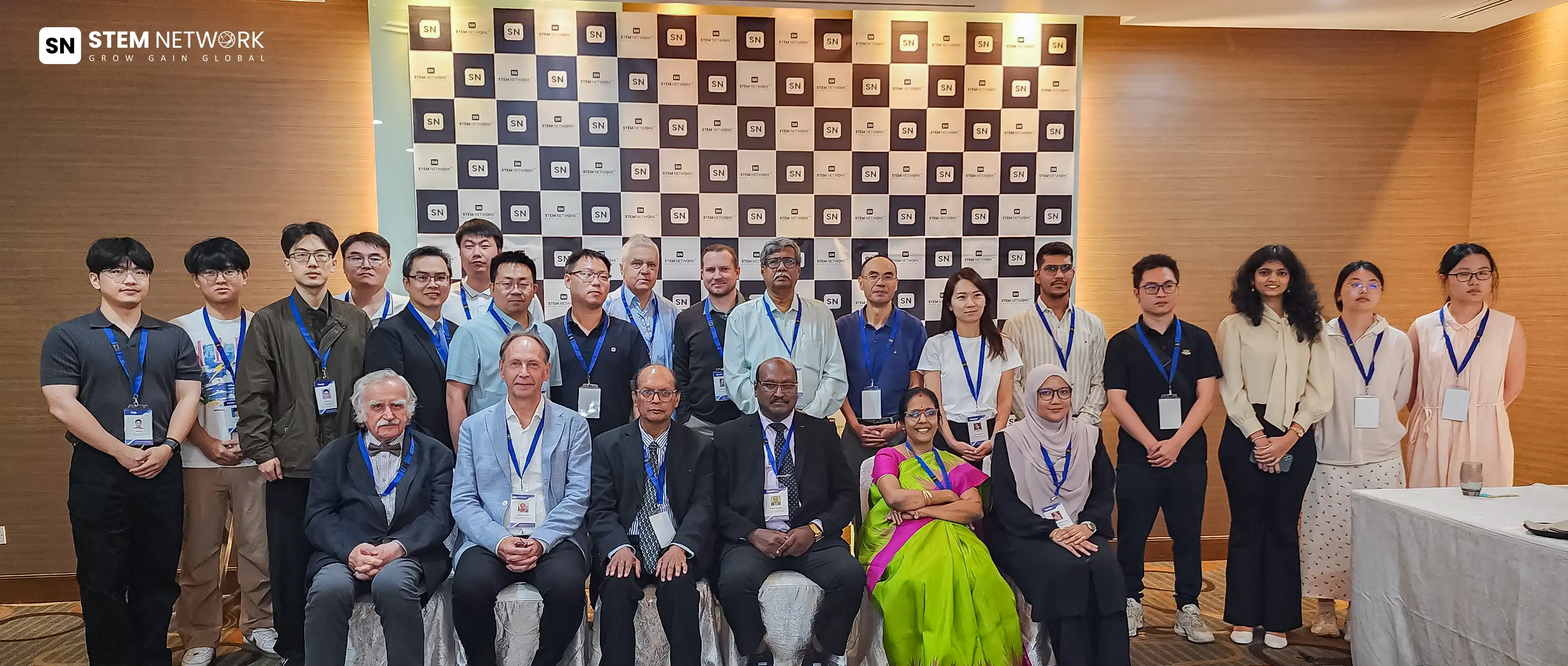
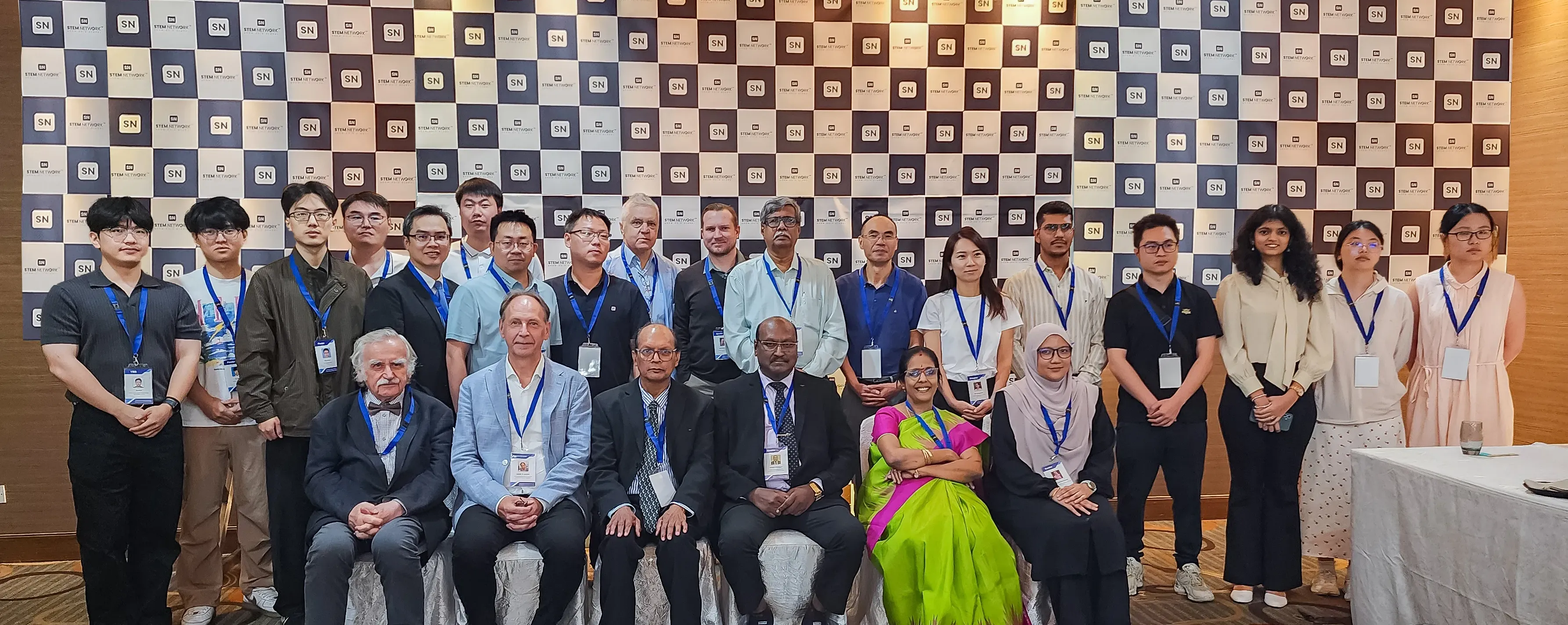
Updated tab -Srilakshmi

diff --git a/src/app/previous-conference/page.tsx b/src/app/previous-conference/page.tsx
@@ -3,8 +3,9 @@ import { ApiResponse } from '@/types';
 import { getBaseUrl } from '@/lib/getBaseUrl';
 import { Metadata } from 'next';
 import Link from 'next/link';
-import Image from 'next/image';
+// import Image from 'next/image';
 import ConferenceTabs from '../components/ConferenceTabs';
+import TabSlider from '../components/TabSlider';
 
 async function fetchGeneralData(): Promise<ApiResponse> {
     const baseUrl = getBaseUrl();
@@ -82,14 +83,16 @@ const PreviousConference = async () => {
 
             <div className='past-conference-page'>
                 <section className="about-conf-section">
-                    {/* <div className="auto-container"> */}
-                    <div className="overview-image-block">
+                    {/* <div className="overview-image-block">
                         <Image src="/images/images/group_image.webp" width={1200} height={500} alt={general_info?.clname} title={general_info?.clname} className="overview-img" />
-                    </div>
+                    </div> */}
+                    <TabSlider />
+
+
                     <div className="overview-content-block">
                         <h2 className="overview-heading">Previous Conference Report</h2>
                         {/* <h3 className="overview-subhead">A Journey of Innovation, Collaboration, and Excellence</h3> */}
-                        <p><span>{general_info?.clname} ({general_info?.csname}-2025)</span> was successfully organized on <span>August 06–07, 2025, in Singapore,</span> bringing together global leaders, researchers, academicians, and industry experts for two days of knowledge-sharing and collaboration.</p>
+                        <p><Link href="/" title={general_info?.clname}>{general_info?.clname} ({general_info?.csname}-2025)</Link> was successfully organized on <span>August 06–07, 2025, in Singapore,</span> bringing together global leaders, researchers, academicians, and industry experts for two days of knowledge-sharing and collaboration.</p>
 
                     </div>
                     <div className="auto-container">
@@ -123,7 +126,7 @@ const PreviousConference = async () => {
                                     Strengthened international collaborations across academia and industry.
                                 </li>
                                 <li>
-                                    Exchange of new ideas and research breakthroughs in <span className='highlight-word'>materials science, nanotechnology, nanomaterials, chemistry and chemical engineering</span>
+                                    Exchange of new ideas and research breakthroughs in <Link href="/" title={general_info?.clname}>materials science, nanotechnology, nanomaterials, chemistry and chemical engineering.</Link>
                                 </li>
                                 <li>
                                     Recognition of outstanding contributions through speaker awards and best poster awards.
@@ -131,10 +134,10 @@ const PreviousConference = async () => {
                             </ul>
 
                             <div className="heading Poster-heading">Acknowledgment</div>
-                            <p>We extend our sincere gratitude to the <span className='highlight-word'>distinguished speakers, session chairs, delegates, sponsors, and organizing committee members</span> for their invaluable contributions to the success of {general_info?.clname} ({general_info?.csname}-2025).</p>
+                            <p>We extend our sincere gratitude to the <Link href="/" title={general_info?.clname}>distinguished speakers, session chairs, delegates, sponsors, and organizing committee members</Link> for their invaluable contributions to the success of {general_info?.clname} ({general_info?.csname}-2025).</p>
 
                             <div className="heading Poster-heading">Looking Ahead</div>
-                            <p>Building on this success, we are excited to announce that the next edition of <span>{general_info?.clname} which is ({general_info?.csname} {general_info?.year} at {general_info?.venue_p1} during {general_info?.full_length_dates})</span> will continue to provide a premier platform for advancing scientific innovation and fostering global collaboration. </p>
+                            <p>Building on this success, we are excited to announce that the next edition of <Link href="/" title={general_info?.clname}>{general_info?.clname} which is ({general_info?.csname} {general_info?.year} at {general_info?.venue_p1} during {general_info?.full_length_dates})</Link> will continue to provide a premier platform for advancing scientific innovation and fostering global collaboration. </p>
                         </div>
                     </div>
                     {/* </div> */}

diff --git a/src/app/components/TabSlider.tsx b/src/app/components/TabSlider.tsx
@@ -1,0 +1,93 @@
+// "use client";
+// import Image from "next/image";
+// import Slider from "react-slick";
+
+// const images = [
+//     "/images/images/group_image1.webp",
+//     "/images/images/group_image2.webp",
+// ];
+
+// export default function TabSlider({ general_info }: any) {
+//     const settings = {
+//         dots: true,
+//         infinite: true,
+//         speed: 500,
+//         autoplay: true,
+//         autoplaySpeed: 3000,
+//         slidesToShow: 1,
+//         slidesToScroll: 1,
+//         arrows: true,
+//     };
+
+//     return (
+//         <div>
+//             <Slider {...settings}>
+//                 <div>
+//                     {images.map((src, index) => (
+//                         <div key={index}  className="overview-image-block">
+//                             <Image
+//                                 src={src}
+//                                 width={1200}
+//                                 height={500}
+//                                 alt={general_info?.clname || "Conference Image"}
+//                                 title={general_info?.clname || "Conference Image"}
+//                                 className="overview-img"
+//                             />
+//                         </div>
+//                     ))}
+//                 </div>
+
+//             </Slider>
+//         </div >
+//     );
+// }
+
+"use client";
+
+import React from "react";
+import Slider from "react-slick";
+import Image from "next/image";
+
+const TabSlider = () => {
+    const settings = {
+        dots: true,
+        infinite: true,
+        speed: 500,
+        autoplay: true,
+        autoplaySpeed: 3000,
+        slidesToShow: 1,
+        slidesToScroll: 1,
+        arrows: true,
+    };
+
+    return (
+        <div>
+            {/* <Slider {...settings}>
+                <div className="overview-image-block">
+                    <Image src="/images/images/group_image2.webp" width={1200} height={500} alt="" title="" className="overview-img" />
+                </div>
+                <div className="overview-image-block">
+                    <Image src="/images/images/group_image2.webp" width={1200} height={500} alt="" title="" className="overview-img" />
+                </div>
+            </Slider> */}
+
+            <div className="tabsSlider-block">
+                <Slider {...settings}>
+                    {/* Slide 1 - Book Today */}
+                    <div className="overview-image-block">
+                        <Image src="/images/images/group_image2.webp" width={1200} height={500} alt="" title="" className="overview-img" />
+                    </div>
+
+                    {/* Slide 2 - Sponsor */}
+                    <div className="overview-image-block">
+                        <Image src="/images/images/group_image2.webp" width={1200} height={500} alt="" title="" className="overview-img" />
+                    </div>
+
+                </Slider>
+            </div>
+        </div>
+    );
+};
+
+export default TabSlider;
+

diff --git a/src/app/styles/style-header.css b/src/app/styles/style-header.css
@@ -10740,15 +10740,25 @@ input[text]:focus {
 	margin: 50px 0;
 }
 
-.about-conf-section .overview-image-block {
+.tabsSlider-block {
+	overflow: hidden;
+	width: 100%;
+	display: block;
+	/* background-color: #2b3b5c; */
+	padding: 40px 0px 30px 0px;
+	text-align: center;
+	color: #fff;
+}
+
+.overview-image-block {
 	display: flex;
 	justify-content: center;
 	align-items: center;
 	width: 100%;
-	margin: 0 auto 40px;
+	margin: 0 auto 0px;
 }
 
-.about-conf-section .overview-image-block .overview-img {
+.overview-image-block .overview-img {
 	width: 100%;
 	height: auto;
 	/* border-radius: 200px; */
@@ -10772,6 +10782,7 @@ input[text]:focus {
 	padding: 0px 50px;
 	border-width: 0px 0px 1px 0px;
 	border-image: linear-gradient(to right, #ededed 0%, #bbbaba 25%, #808080 50%, #bbbaba 75%, #ededed 100%) 1;
+	margin-top: 20px;
 }
 
 .about-conf-section .overview-content-block .overview-subhead {
@@ -10794,9 +10805,13 @@ input[text]:focus {
 	margin: 20px auto 18px;
 }
 
-.about-conf-section .overview-content-block p span {
+.past-conference-page a {
 	font-weight: 600;
 	color: var(--primary-color);
+}
+
+.past-conference-page a:hover {
+	color: var(--fourth-color);
 }
 
 /* Tabs Navigation  */

diff --git a/src/app/components/ConferenceTabs.tsx b/src/app/components/ConferenceTabs.tsx
@@ -349,7 +349,7 @@ export default function ConferenceSessions() {
       ],
       description: "Interactive panel discussions on emerging trends.",
     },
-    "Certificates": {
+    "Certificate Presentation Ceremony": {
       images: [
         "/images/gallery-event/certificates/1.webp",
         "/images/gallery-event/certificates/2.webp",
